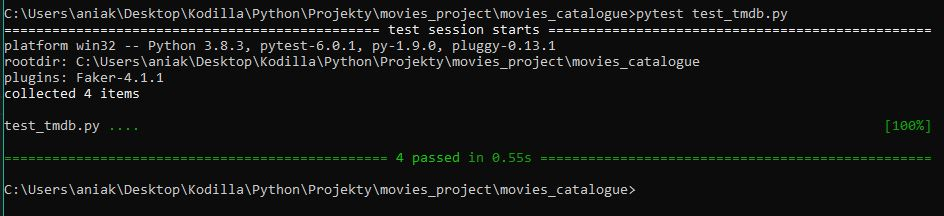
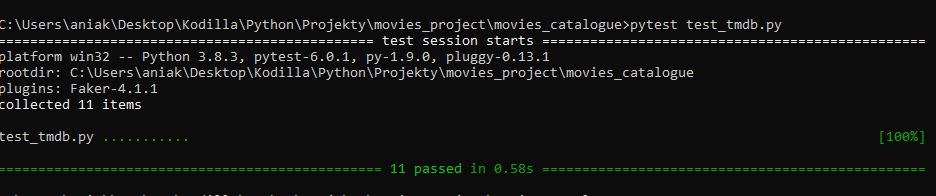
Added new tests

diff --git a/test_tmdb.py b/test_tmdb.py
@@ -3,9 +3,11 @@ import tmdb_client as tc
 import pytest
 from main import app
 import requests
+import flask
 
 # zadanie 2
-"""
+
+        #  przykład z modułu
 def test_homepage(monkeypatch):
    api_mock = Mock(return_value={'results': []})
    monkeypatch.setattr("tmdb_client.call_tmdb_api", api_mock)
@@ -13,28 +15,42 @@ def test_homepage(monkeypatch):
    with app.test_client() as client: # co się tutaj dzieje? w podobny sposób trzeba by przetestować endopoint poniżej?
        response = client.get('/movie/')
        assert response.status_code == 200
-       api_mock.assert_called_once_with('movie/popular') # po co nm ta linia?
+       api_mock.assert_called_once_with('movie/popular') # po co nm ta linia? żeby wywołać tylko jeden request get?
 
 
 @pytest.mark.parametrize("test_input", ("popular", "upcoming"))
-def test_homepage_list(monkeypatch, test_input):
-    api_mock = Mock(return_value=[{'popularity': 2037.113, 'vote_count': 153, 'video': False, 'poster_path': '/zVncJzXzwIO15YM1WilqYn30r54.jpg', 'id': 718444, 
-                                'adult': False, 'backdrop_path': '/x4UkhIQuHIJyeeOTdcbZ3t3gBSa.jpg', 'original_language': 'en', 'original_title': 'Rogue',
-                                'genre_ids': [28], 'title': 'Rogue', 'vote_average': 6, 'overview': 'Battle-hardened O’Hara leads a lively mercenary team of soldiers on a daring'+ 
-                                'mission: rescue hostages from their captors in remote Africa. But as the mission goes awry and the team is stranded, O’Hara’s squad must face a bloody,'+
-                                'brutal encounter with a gang of rebels.', 'release_date': '2020-08-20'}, {'popularity': 1465.301, 'vote_count': 1087, 'video': False, 'poster_path': 
-                                '/TnOeov4w0sTtV2gqICqIxVi74V.jpg', 'id': 605116, 'adult': False, 'backdrop_path': '/qVygtf2vU15L2yKS4Ke44U4oMdD.jpg', 
-                                'original_language': 'en', 'original_title': 'Project Power', 'genre_ids': [28, 80, 878], 'title': 'Project Power', 'vote_average': 6.7, 
-                                'overview': 'An ex-soldier, a teen and a cop collide in New Orleans as they hunt for the source behind a dangerous new pill that grants users'+ 
-                                'temporary superpowers.', 'release_date': '2020-08-14'}])
-
+def test_homepage_2(monkeypatch, test_input):
+    api_mock = Mock(return_value={'results': []})
     monkeypatch.setattr("tmdb_client.call_tmdb_api", api_mock)
 
     with app.test_client() as client:
-        response = client.get('/movie/')
-        assert response['title'] == api_mock['title']
-"""
+        response = client.get(f'movie/?list_type={test_input}')
+        api_mock.assert_called_once_with(f'movie/{test_input}')
+        assert response.status_code == 200
+
+
+@pytest.mark.parametrize("test_input", ("popular", "upcoming"))
+def test_homepage_list_1(test_input):
+
+    with app.test_request_context(f'/movie/{test_input}'):
+        assert flask.request.path == f"/movie/{test_input}"
+
+
+@pytest.mark.parametrize("test_input", ("popular", "upcoming"))
+def test_homepage_list_2(monkeypatch, test_input):
+    mock_movies_list = [{'title': 'Movie1'}, {'title': 'Movie2'}]
+    requests_mock = Mock()
+    response = requests_mock.return_value
+    response.json.return_value = mock_movies_list
+    monkeypatch.setattr("tmdb_client.requests.get", requests_mock)
+
+    movies_list = tc.get_movies_list(list_type=test_input)
+    assert movies_list == mock_movies_list
+
+
+
 # zadanie 1
+
 
 def test_get_single_movie_title(monkeypatch):
     mock_movie_title = {"title": "Harry Potter and the Philosopher's Stone"}

diff --git a/main.py b/main.py
@@ -25,17 +25,17 @@ def homepage():
             return redirect(url_for('show_favorites'))
         else:
             movies = tc.get_movies(how_many=8, list_type=data)
+            print(movies)
             return render_template("homepage.html", movies=movies, current_list=movies, lists=movies_list, active = data)
     else:
         movies = tc.get_movies(how_many=8, list_type="popular")
         return render_template("homepage.html", movies=movies, current_list=movies, lists=movies_list)
 
-@app.route('/movie/<movie_id>')
+@app.route('/movie/<int:movie_id>')
 def movie_details(movie_id):
     movie = tc.get_single_movie(movie_id)
     cast = tc.get_single_movie_cast(movie_id)["cast"][:8]
     images = tc.get_single_movie_images(movie_id)["backdrops"]
-    print(cast)
     random_image = sample(images, 1)
     image_url = random_image[0]['file_path']
     return render_template("movie_details.html", movie=movie, cast=cast, image_url=image_url)
